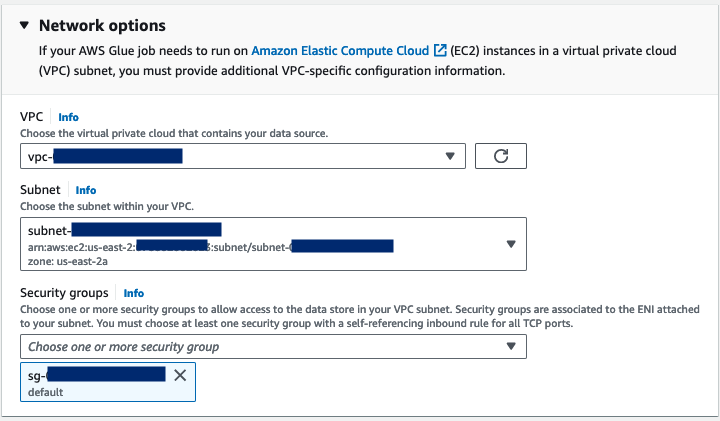
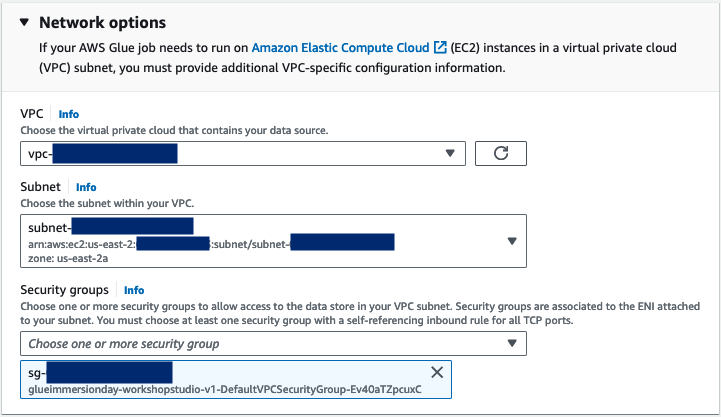
updated with all content

diff --git a/README.md b/README.md
@@ -2,11 +2,17 @@
 
 This repository contains step-by-step guide on how to set-up AWS Glue connector for Snowflake and a sample ETL job that uses this connector.
 
-## Pre-requisites:
+## Table of contents
+1. [Pre-requisites](#prereq)
+1. [Snowflake Set-up](#snowflake-setup)
+1. [AWS Set-up](#aws-setup)
+1. [Validate the ETL job completion](#validate)
+
+## Pre-requisites: <a name="prereq"></a>
 
 Complete Lab 01: Working with Glue Data Catalog > Using AWS Console from [Glue Immersion Day workshop](https://catalog.us-east-1.prod.workshops.aws/workshops/ee59d21b-4cb8-4b3d-a629-24537cf37bb5/en-US). This lab assumes that the Glue table `console_csv` in Glue database `console_glueworkshop` are present in your AWS account.
 
-## Snowflake Set-up
+## Snowflake Set-up <a name="snowflake-setup"></a>
 
 In a new browser tab, go to http://signup.snowflake.com/ and sign-up for a new account. Ensure that you choose **Enterprise** for the "Choose your Snowflake edition" question and **AWS** for the "Choose your cloud provider" question.
 
@@ -22,7 +28,7 @@ Follow the below steps to complete the setup:
 
     ![](images/snowflake-account-url.png)
 
-## AWS Glue Set-up
+## AWS Set-up <a name="aws-setup"></a>
 
 ### Create a secret in AWS Secrets Manager
 
@@ -38,6 +44,11 @@ Follow the below steps to complete the setup:
 
     ![](images/sm-create-secret-2.png)
 
+### Grant Glue service role permissions to the Secret
+
+1. In your AWS console, go to AWS IAM and click on **Roles** from the left navbar. Search for `AWSGlueServiceRole-glueworkshop` and click into it.
+1. Click **Add permissions** dropdown, and choose **Attach policies**. Search for `SecretsManagerReadWrite` and attach the policy to the role by clicking **Add permissions**. This will allow the Glue service role permission to retrieve the secret values you created in the previous step.
+    ![](images/iam-attach-sm-policy.png)
 
 ### Create AWS Glue connector for Snowflake
 
@@ -49,7 +60,7 @@ Follow the below steps to complete the setup:
     ![](images/vpcs.png)
 1. Go to Subnets in the left navbar, filter by the `glueworkshop` VPC and take note of the Subnet ID with the name `MWAAEnvironment Private Subnet (AZ1)`.
     ![](images/subnets.png)
-1. Go back to the Glue create connector console, and choose the VPC ID and subnet ID that you took note of above. For security groups, you can choose the `default` security group. Then, click **Next**.
+1. Go back to the Glue create connector console, and choose the VPC ID and subnet ID that you took note of above. For security groups, you can choose the security group that starts with `glueimmersionday-workshopstudio-v1-DefaultVPCSecurityGroup`. Then, click **Next**.
     ![](images/glue-create-connector-2.png)
 1. Leave `Snowflake connection` as the name, and click **Next** and then **Create connection**.
 
@@ -66,9 +77,40 @@ Follow the below steps to complete the setup:
 1. Go back to the **Visual** tab, and click the **+** button. For the first node, Choose `AWS Glue Data Catalog` and click on the node. Choose `console_glueworkshop` for the Database, `console_csv` for the Table.
     ![](images/glue-create-job-2.png)
 
-1. Click the **+** button again to create another node. Under **Transforms** choose `Drop Fields`. Choose the columns `unit cost`, `total cost` and `total profit` to drop. This is to simulate the case where you would want to remove the profit-related values which may be sensitive.
+1. Click the **+** button to create another node. Under **Transforms** choose `Drop Fields`. Choose the columns `unit cost`, `total cost` and `total profit` to drop. This is to simulate the case where you would want to remove the profit-related values which may be sensitive.
     ![](images/glue-create-job-3.png)
 
-1. Click the **+** button again to create another node. Under **Targets** choose `Snowflake`. Choose the Snowflake connection you created previously, and fill in `xx` for database, and `xx` for schema.
+1. Click the **+** button to create another node. Under **Transforms** choose `Evaluate Data Quality`. In the **Ruleset editor**, paste the following ruleset.
+    ```
+        Rules = [
+            IsUnique "UUID",
+            ColumnValues "sales channel" in ["Offline", "Online"],
+            ColumnValues "order priority" in ["L", "M", "H", "C"],
+            CustomSql "SELECT COUNT(*) FROM primary WHERE `total revenue` != ROUND(`units sold` * `unit price`, 2)" = 0
+        ]
+    ```
+
+1. Under **Data quality transform output**, check `Original data`. Under **Data quality actions**, choose `Fail job without loading target data`. 
+    ![](images/glue-create-job-4.png)
+
+1. You should see a new node called `originalData` being added in the visual graph. Click on that node, and then click the **+** button to create another node. Under **Targets** choose `Snowflake`. Choose the Snowflake connection you created previously, and fill in `glue_db` for database, `glue_workshop` for schema, and `orders` for table.
+    ![](images/glue-create-job-5.png)
 
 1. Click **Save** and then click **Run**.
+
+## Validate the ETL job completion <a name="validate"></a>
+
+1. In the Glue visual ETL console, go to **Runs** tab and ensure that the job has successfully completed.
+    ![](images/glue-job-status.png)
+
+1. Navigate to **Data quality** tab to see the data quality results from the ETL job. You can optionally download the DQ results.
+    ![](images/glue-dq-results.png)
+
+1. Navigate back to Snowflake Snowsight UI. In the same worksheet, or in a new worksheet, run the following SQL commands to validate that a new table `orders` is created in the `glue_db.glue_workshop` schema, with the profit-related columns dropped.
+
+    ```sql
+    SELECT * from glue_workshop.orders LIMIT 50;
+    SELECT COUNT(*) from glue_workshop.orders;
+    ```
+
+Congratulations! You have successfully created AWS Glue native Snowflake connector and used it to do a simple ETL job to load data into Snowflake.
